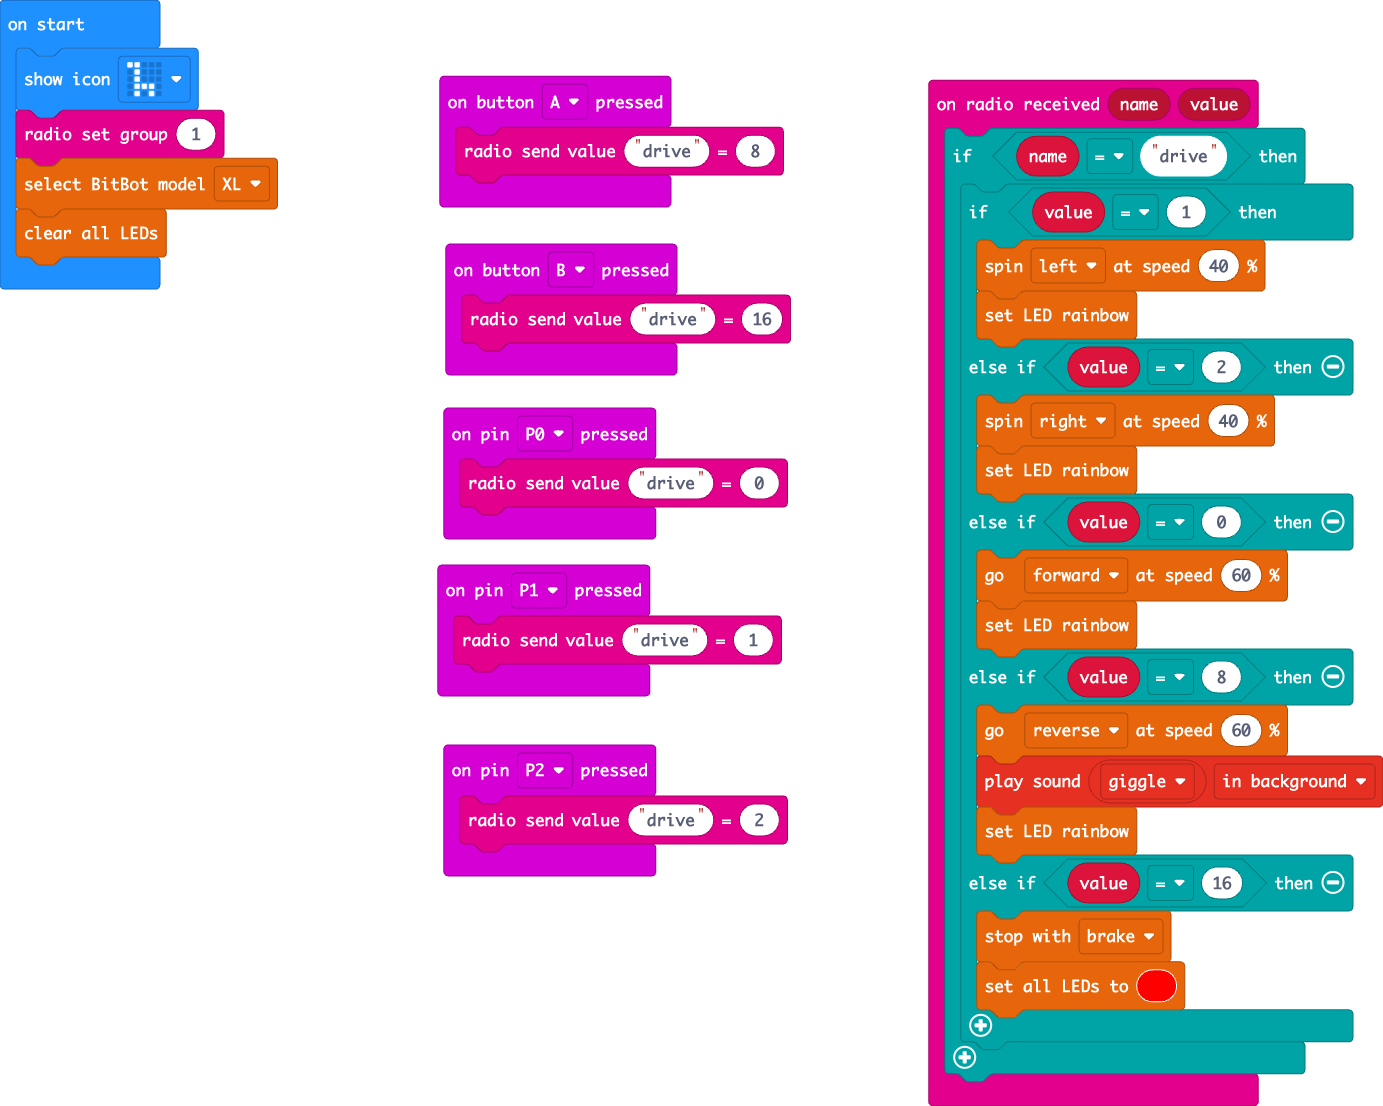
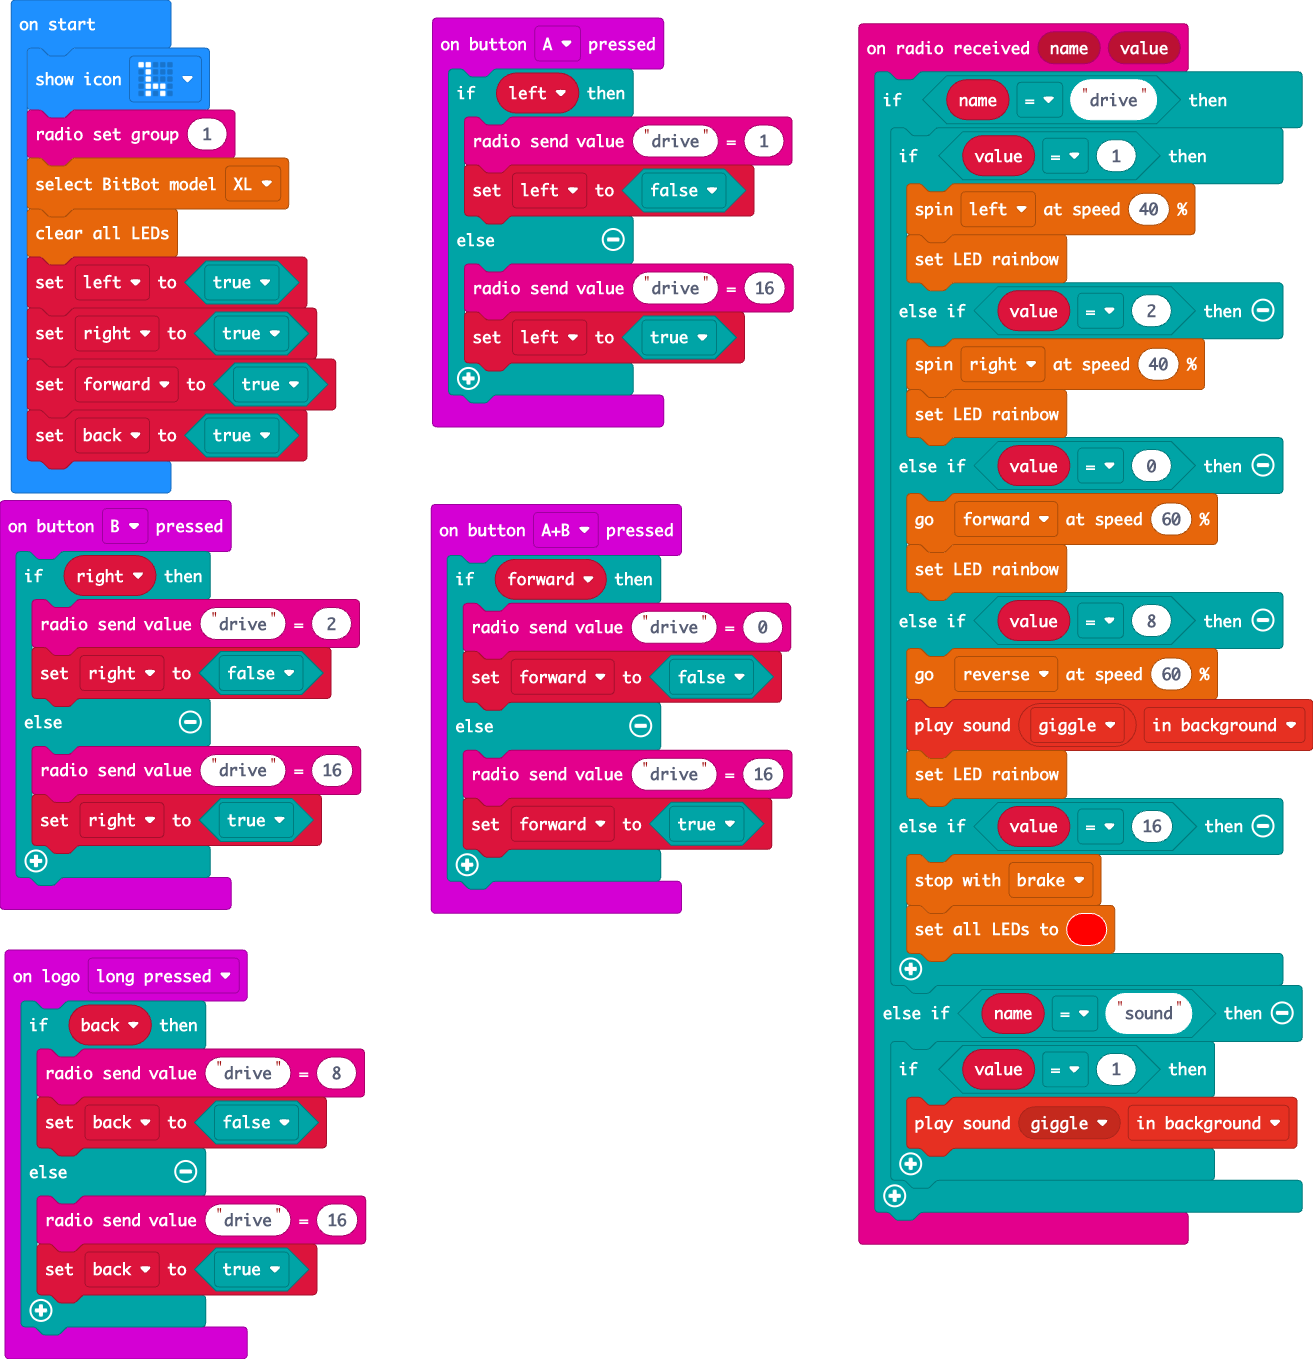
removed need for controller as it was problematic

diff --git a/main.ts b/main.ts
@@ -1,17 +1,38 @@
-input.onPinPressed(TouchPin.P0, function () {
-    radio.sendValue("drive", 0)
+input.onLogoEvent(TouchButtonEvent.LongPressed, function () {
+    if (back) {
+        radio.sendValue("drive", 8)
+        back = false
+    } else {
+        radio.sendValue("drive", 16)
+        back = true
+    }
 })
 input.onButtonPressed(Button.A, function () {
-    radio.sendValue("drive", 8)
+    if (left) {
+        radio.sendValue("drive", 1)
+        left = false
+    } else {
+        radio.sendValue("drive", 16)
+        left = true
+    }
 })
-input.onPinPressed(TouchPin.P2, function () {
-    radio.sendValue("drive", 2)
+input.onButtonPressed(Button.AB, function () {
+    if (forward) {
+        radio.sendValue("drive", 0)
+        forward = false
+    } else {
+        radio.sendValue("drive", 16)
+        forward = true
+    }
 })
 input.onButtonPressed(Button.B, function () {
-    radio.sendValue("drive", 16)
-})
-input.onPinPressed(TouchPin.P1, function () {
-    radio.sendValue("drive", 1)
+    if (right) {
+        radio.sendValue("drive", 2)
+        right = false
+    } else {
+        radio.sendValue("drive", 16)
+        right = true
+    }
 })
 radio.onReceivedValue(function (name, value) {
     if (name == "drive") {
@@ -32,9 +53,21 @@ radio.onReceivedValue(function (name, value) {
             bitbot.stop(BBStopMode.Brake)
             bitbot.setLedColor(0xFF0000)
         }
+    } else if (name == "sound") {
+        if (value == 1) {
+            music.playSoundEffect(music.builtinSoundEffect(soundExpression.giggle), SoundExpressionPlayMode.InBackground)
+        }
     }
 })
+let back = false
+let forward = false
+let right = false
+let left = false
 basic.showIcon(IconNames.Giraffe)
 radio.setGroup(1)
 bitbot.select_model(BBModel.XL)
 bitbot.ledClear()
+left = true
+right = true
+forward = true
+back = true
